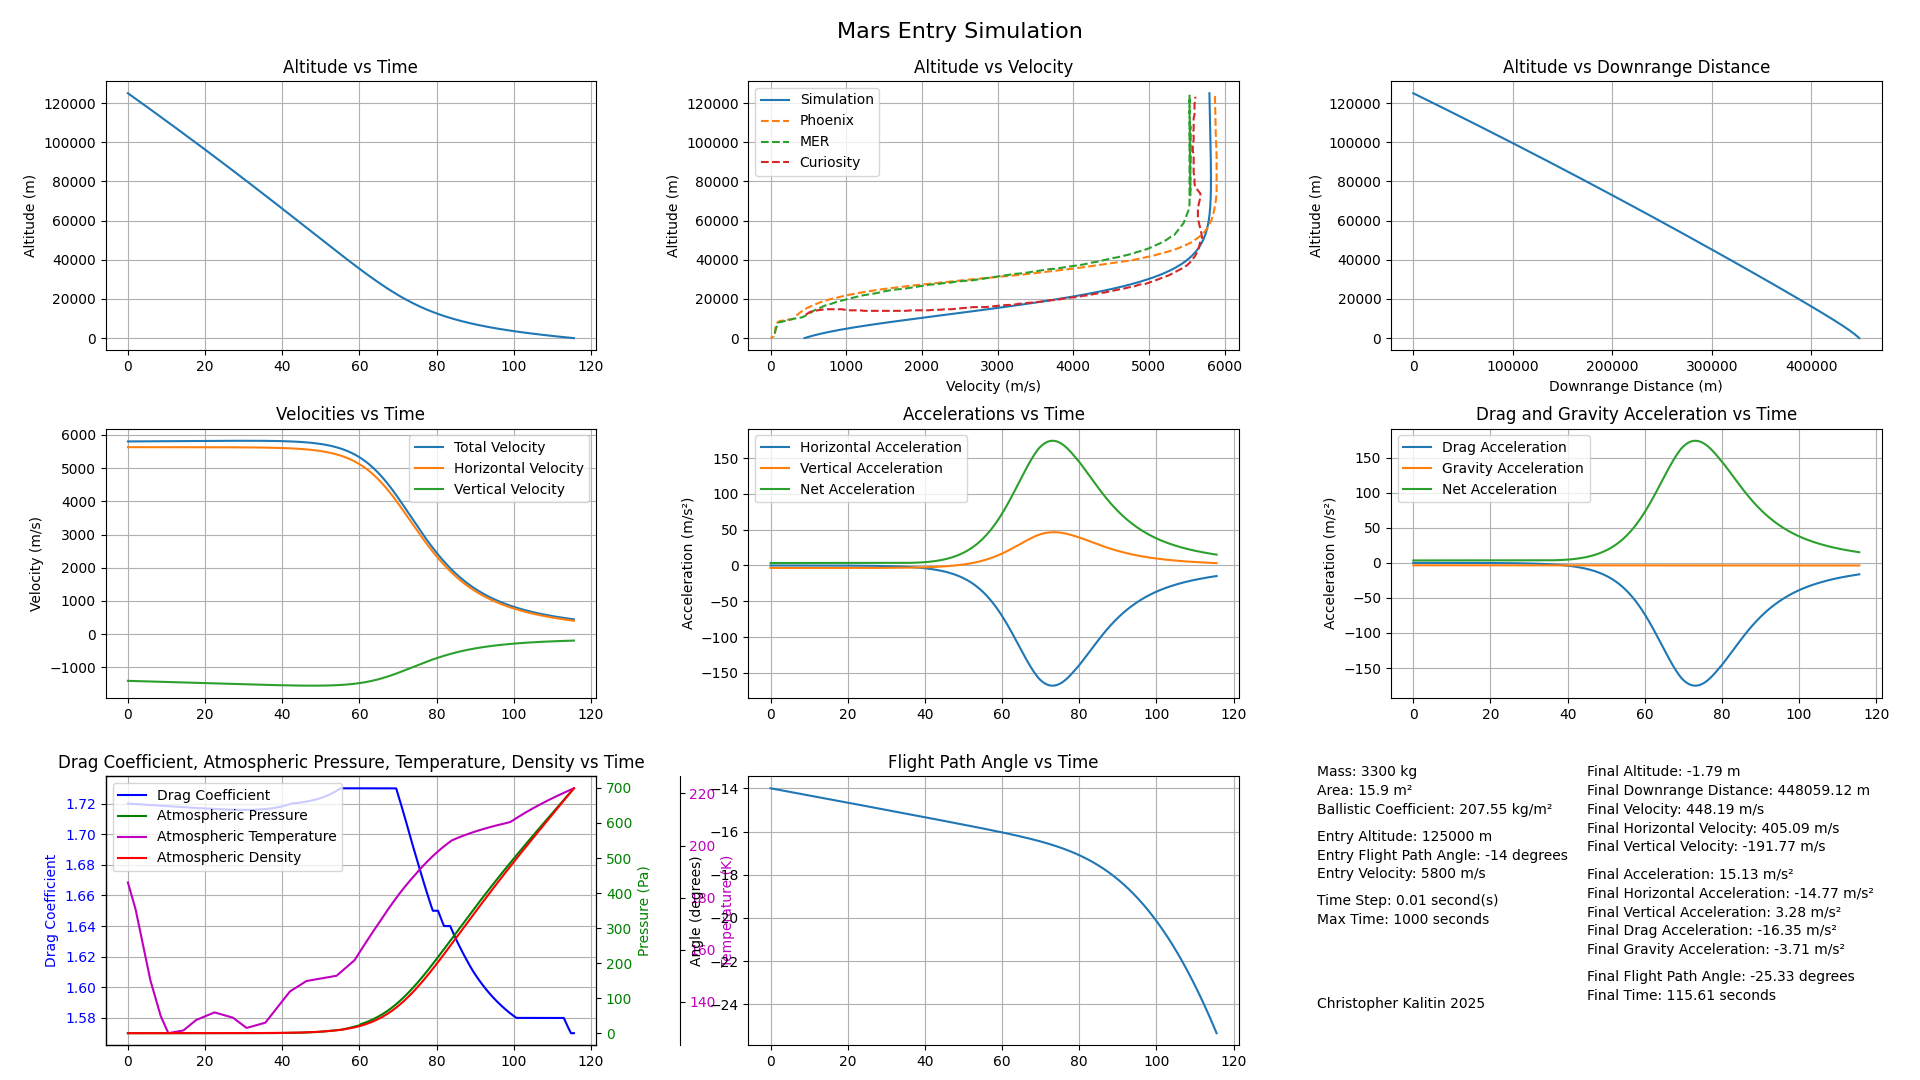
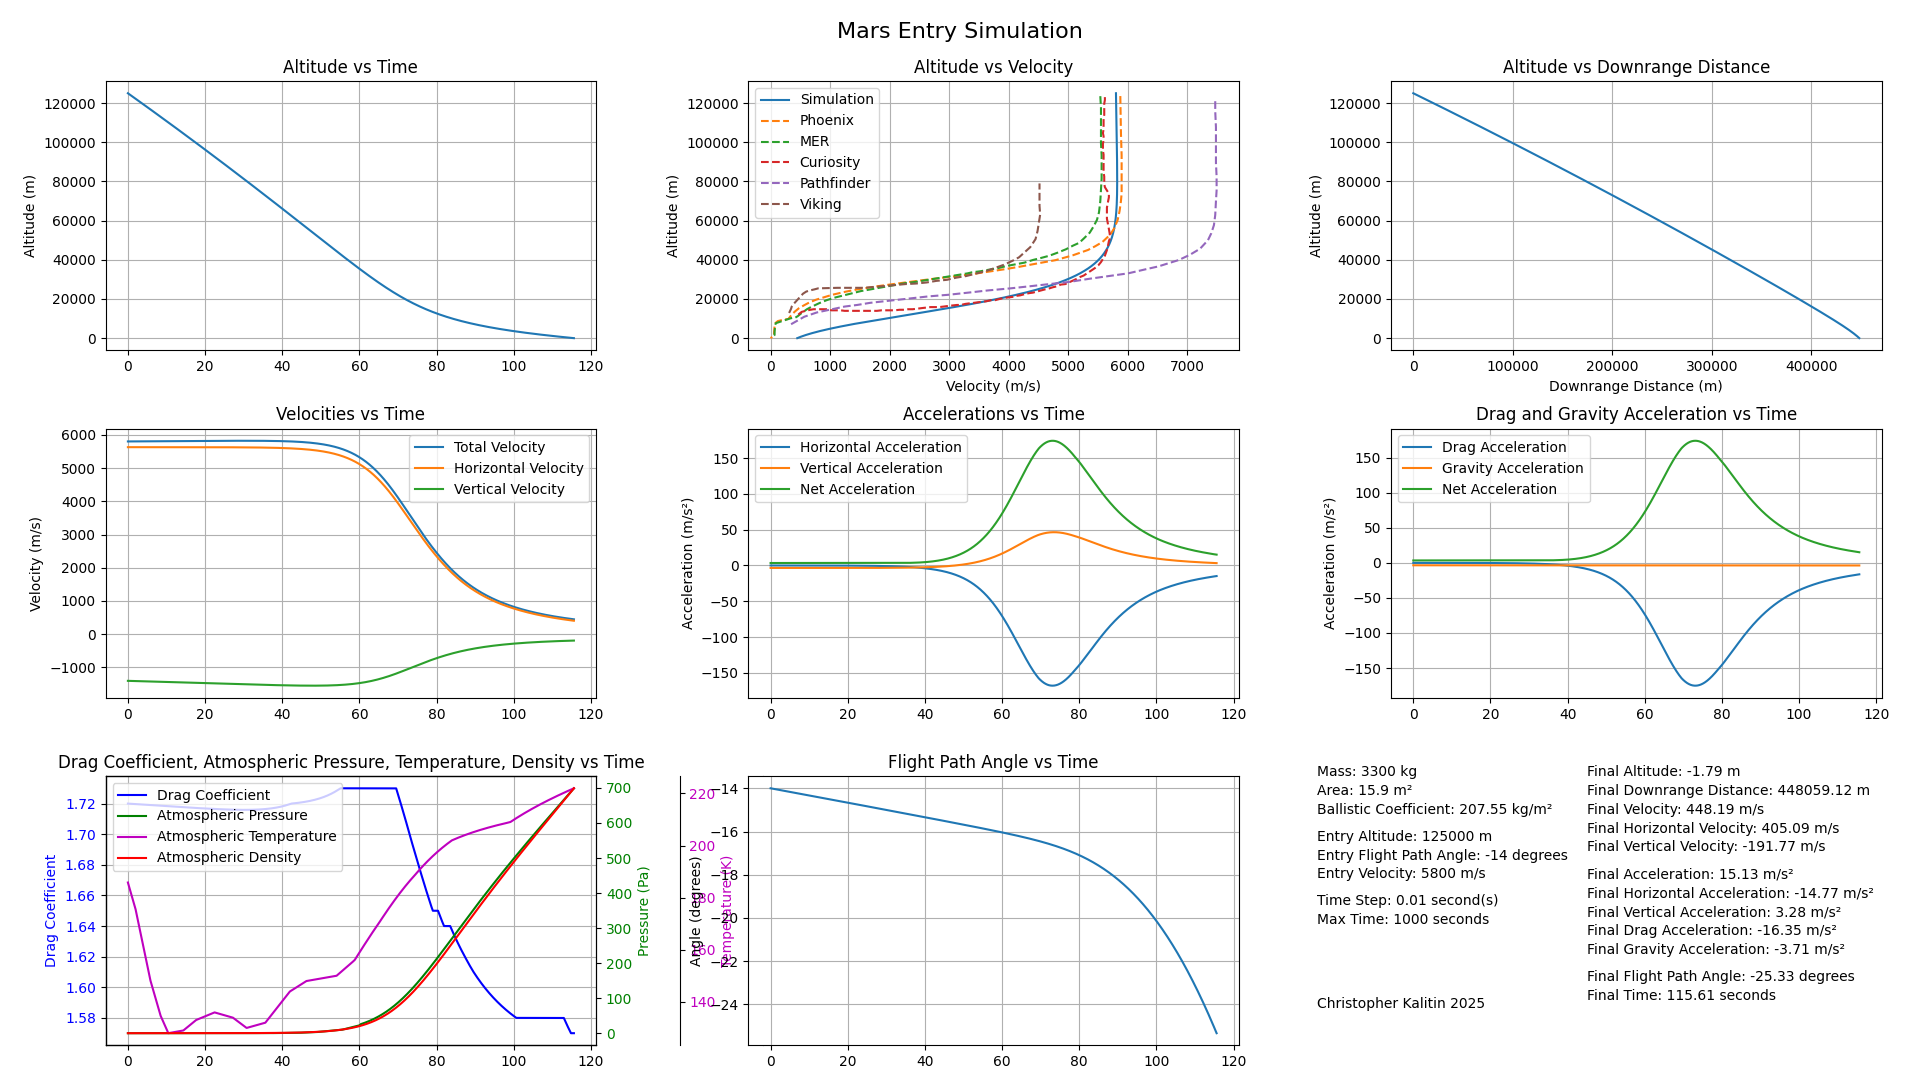
Added all backtest lander data

diff --git a/Simulation/backtest.py b/Simulation/backtest.py
@@ -23,11 +23,11 @@ phoenix = [
 mer = [
     # Velocity (m/s)
     np.array([
-    5548, 5548, 5548, 5548, 5548, 5548, 5548, 5537, 5537, 5537, 5537, 5526, 5503, 5481, 5459, 5415, 5370, 5337, 5315, 5315, 5237, 5237, 5160, 5160, 5082, 5082, 5004, 5004, 4926, 4926, 4849, 4849, 4760, 4760, 4671, 4671, 4583, 4583, 4505, 4505, 4416, 4416, 4327, 4327, 4239, 4239, 4150, 4150, 4061, 4061, 3961, 3961, 3872, 3872, 3784, 3784, 3695, 3695, 3595, 3595, 3506, 3506, 3417, 3417, 3318, 3318, 3229, 3229, 2752, 2752, 2663, 2663, 2574, 2574, 2474, 2474, 2386, 2386, 2297, 2297, 2208, 2208, 2108, 2108, 2019, 2019, 1931, 1931, 1842, 1842, 1753, 1753, 1664, 1664, 1564, 1564, 1487, 1487, 1398, 1398, 1309, 1309, 1221, 1221, 1132, 1132, 1043, 1043, 965, 965, 877, 877, 799, 799, 721, 721, 644, 644, 566, 566, 499, 499, 422, 422, 333, 333, 100, 67, 44
+    5537, 5548, 5548, 5548, 5559, 5559, 5559, 5548, 5537, 5515, 5481, 5426, 5359, 5259, 5182, 5082, 4960, 4827, 4682, 4549, 4405, 4261, 4117, 3972, 3828, 3673, 3528, 3384, 3307, 2430, 2275, 2119, 1975, 1820, 1675, 1520, 1376, 1232, 1087, 943, 810, 677, 610, 510, 455, 411, 377, 333, 89, 78, 67, 67, 33
     ]),
     # Altitude (m)
     np.array([
-    89071, 91530, 108197, 79508, 79508, 75410, 72951, 123770, 110383, 70492, 68033, 65574, 63115, 60929, 58743, 56557, 54372, 52732, 52459, 52459, 50273, 50273, 48634, 48634, 47268, 47268, 45902, 45902, 44809, 44809, 43989, 43989, 42896, 42896, 42077, 42077, 41257, 41257, 40710, 40710, 39891, 39891, 39071, 39071, 38525, 38525, 37705, 37705, 37158, 37158, 36612, 36612, 36066, 36066, 35519, 35519, 35246, 35246, 34699, 34699, 34153, 34153, 33607, 33607, 33060, 33060, 32787, 32787, 30055, 30055, 29508, 29508, 29235, 29235, 28962, 28962, 28415, 28415, 28142, 28142, 27596, 27596, 27322, 27322, 26776, 26776, 26230, 26230, 25683, 25683, 25137, 25137, 24863, 24863, 24317, 24317, 23770, 23770, 22951, 22951, 22404, 22404, 21858, 21858, 21038, 21038, 20219, 20219, 19399, 19399, 18579, 18579, 17486, 17486, 16667, 16667, 15301, 15301, 13934, 13934, 12295, 12295, 10656, 10656, 10109, 10109, 7923, 4372, 546
+    123497, 117486, 112295, 99454, 93443, 87432, 81421, 75683, 69945, 64208, 60383, 57104, 53825, 50820, 48634, 47268, 45355, 43716, 42077, 40984, 39891, 38525, 37705, 36885, 35792, 34973, 34153, 33607, 33060, 28689, 28142, 27322, 26503, 25683, 24863, 24044, 22951, 21858, 20765, 19399, 17760, 15847, 14754, 12568, 11202, 10383, 10383, 10109, 7650, 6831, 3279, 1639, 546
     ]),
     "MER"
 ]
@@ -43,6 +43,32 @@ curiosity = [
     12022, 13388, 14208, 14754, 14754, 14754, 14208, 14208, 14208, 13934, 13934, 13934, 13934, 13934, 13934, 13934, 13934, 14208, 14208, 14208, 14208, 14481, 14481, 14754, 14754, 15027, 15301, 15574, 15847, 15847, 15847, 16120, 16393, 16667, 16940, 16940, 17486, 17760, 18033, 18306, 18579, 18852, 19399, 19399, 19945, 20492, 20765, 21038, 21585, 21858, 22404, 22951, 23224, 23770, 24317, 24863, 25410, 25956, 26503, 27322, 27596, 30055, 31148, 31967, 33333, 34426, 35792, 37158, 38798, 40437, 42077, 43989, 45902, 47814, 49454, 51366, 53825, 55738, 57377, 59290, 60929, 62842, 64754, 66667, 68306, 70219, 71858, 73770, 77049, 78689, 80601, 82514, 84426, 86066, 87978, 89891, 91803, 93716, 95628, 97541, 99180, 101093, 103005, 104645, 106557, 108470, 110383, 112295, 113934, 115847, 117760, 119672, 121585, 123224
     ]),
     "Curiosity"
+]
+
+# Pathfinder Entry:
+pathfinder = [
+    # Velocity (m/s)
+    np.array([
+    344, 566, 777, 1032, 1243, 1454, 1675, 1997, 2330, 2652, 2985, 3318, 3639, 4028, 4361, 4682, 5015, 5359, 5681, 6003, 6313, 6513, 6713, 6857, 7046, 7212, 7345, 7401, 7445, 7467, 7479, 7490, 7490, 7479, 7479, 7479, 7479, 7467, 7467
+    ]),
+    # Altitude (m)
+    np.array([
+    7104, 10929, 13115, 14754, 16120, 16940, 18033, 19126, 20219, 21311, 22131, 23224, 24317, 25410, 26503, 27596, 28689, 30328, 31694, 33060, 35246, 36612, 38525, 39891, 42623, 45628, 50000, 53552, 57650, 62842, 69945, 75410, 82514, 89344, 96175, 103279, 107650, 115847, 121585
+    ]),
+    "Pathfinder"
+]
+
+# Viking Entry:
+viking = [
+    # Velocity (m/s)
+    np.array([
+    311, 344, 355, 388, 544, 599, 655, 732, 766, 799, 1121, 1154, 1187, 1376, 1564, 1886, 2264, 2441, 2619, 2785, 2963, 3118, 3284, 3639, 3917, 4072, 4172, 4361, 4449, 4483, 4527, 4516, 4516, 4516, 4516
+    ]),
+    # Altitude (m)
+    np.array([
+    12842, 15027, 16120, 17486, 22678, 23770, 24317, 24863, 25137, 25410, 25683, 25683, 25683, 25683, 25683, 26503, 27596, 27869, 28415, 29235, 29781, 30874, 31694, 34426, 37432, 39617, 41257, 46448, 50546, 54645, 63115, 67486, 72131, 75683, 78962
+    ]),
+    "Viking"
 ]
 
 # Curiosity
@@ -69,4 +95,4 @@ sim_data = sim.simulate(
     verbose=False,
 )
 
-sim.plot(sim_data, filename="backtest/Curiosity-Entry.png", comparisons=[phoenix, mer, curiosity], show=False)
+sim.plot(sim_data, filename="backtest/Curiosity-Entry.png", comparisons=[phoenix, mer, curiosity, pathfinder, viking], show=False)

diff --git a/Extras/sheets_to_np_array.py b/Extras/sheets_to_np_array.py
@@ -28,9 +28,7 @@ def parse_vel_alt(data_str):
     v_arr = np.array(velocities, dtype=int)
     h_arr = np.array(alts,       dtype=int)
     
-    # Sort by velocity descending
-    idx = np.argsort(-v_arr)
-    return v_arr[idx], h_arr[idx]
+    return v_arr, h_arr
 
 def format_for_python(name, v_arr, h_arr):
     """
@@ -64,121 +62,42 @@ def format_for_python(name, v_arr, h_arr):
 if __name__ == "__main__":
     # paste your sheet output into this triple‑quoted string:
     raw_data = """Velocity (m/s)	Altitude (m)
-466	12,022
-521	13,388
-621	14,208
-721	14,754
-832	14,754
-943	14,754
-1,021	14,208
-1,098	14,208
-1,176	14,208
-1,243	13,934
-1,320	13,934
-1,398	13,934
-1,476	13,934
-1,553	13,934
-1,631	13,934
-1,709	13,934
-1,786	13,934
-1,864	14,208
-1,942	14,208
-2,008	14,208
-2,086	14,208
-2,164	14,481
-2,241	14,481
-2,308	14,754
-2,386	14,754
-2,463	15,027
-2,530	15,301
-2,607	15,574
-2,685	15,847
-2,752	15,847
-2,829	15,847
-2,907	16,120
-2,974	16,393
-3,051	16,667
-3,129	16,940
-3,196	16,940
-3,273	17,486
-3,340	17,760
-3,417	18,033
-3,484	18,306
-3,562	18,579
-3,628	18,852
-3,706	19,399
-3,773	19,399
-3,839	19,945
-3,917	20,492
-3,983	20,765
-4,061	21,038
-4,128	21,585
-4,194	21,858
-4,261	22,404
-4,338	22,951
-4,405	23,224
-4,472	23,770
-4,538	24,317
-4,605	24,863
-4,682	25,410
-4,738	25,956
-4,816	26,503
-4,871	27,322
-4,949	27,596
-5,126	30,055
-5,193	31,148
-5,259	31,967
-5,326	33,333
-5,381	34,426
-5,448	35,792
-5,503	37,158
-5,548	38,798
-5,581	40,437
-5,614	42,077
-5,637	43,989
-5,659	45,902
-5,670	47,814
-5,681	49,454
-5,703	51,366
-5,692	53,825
-5,681	55,738
-5,670	57,377
-5,659	59,290
-5,648	60,929
-5,648	62,842
-5,648	64,754
-5,648	66,667
-5,659	68,306
-5,670	70,219
-5,681	71,858
-5,681	73,770
-5,614	77,049
-5,603	78,689
-5,603	80,601
-5,603	82,514
-5,592	84,426
-5,592	86,066
-5,592	87,978
-5,592	89,891
-5,592	91,803
-5,592	93,716
-5,581	95,628
-5,581	97,541
-5,581	99,180
-5,592	101,093
-5,592	103,005
-5,581	104,645
-5,592	106,557
-5,592	108,470
-5,592	110,383
-5,592	112,295
-5,603	113,934
-5,603	115,847
-5,603	117,760
-5,603	119,672
-5,614	121,585
-5,614	123,224
+311	12,842
+344	15,027
+355	16,120
+388	17,486
+544	22,678
+599	23,770
+655	24,317
+732	24,863
+766	25,137
+799	25,410
+1,121	25,683
+1,154	25,683
+1,187	25,683
+1,376	25,683
+1,564	25,683
+1,886	26,503
+2,264	27,596
+2,441	27,869
+2,619	28,415
+2,785	29,235
+2,963	29,781
+3,118	30,874
+3,284	31,694
+3,639	34,426
+3,917	37,432
+4,072	39,617
+4,172	41,257
+4,361	46,448
+4,449	50,546
+4,483	54,645
+4,527	63,115
+4,516	67,486
+4,516	72,131
+4,516	75,683
+4,516	78,962
     """
     
 vel,alt = parse_vel_alt(raw_data)
-print(format_for_python("Curiosity", vel, alt))
+print(format_for_python("Viking", vel, alt))

diff --git a/Extras/line_pixel_extract.py b/Extras/line_pixel_extract.py
@@ -10,11 +10,11 @@ except ImportError:
 # --- User-Configurable Variables ---
 image_path = 'extract_image.png'   # Path to your input chart image
 # Set your target HSV color (hue: 0-179, sat: 0-255, val: 0-255)
-target_hsv = (int(0/2), int(0*2.55), int(0*2.55))
+target_hsv = (int(240/2), int(100*2.55), int(100*2.55))
 # HSV tolerance around target: (hue_range, sat_range, val_range)
-hsv_range = (1, 1, 1)
+hsv_range = (40, 40, 40)
 # Number of evenly spaced points you want along the curve
-num_points = 500
+num_points = 400
 
 sort_by_corner  = True
 # -----------------------------------

diff --git a/README.md b/README.md
@@ -8,6 +8,6 @@ Project Files: https://drive.google.com/drive/folders/1TZtnQIGfnQR2XwH2QPFnw9MOi
 Project Blog Post: Soon!  
 
 # Todo
-1. Add the rest of the Mars Lander trajectories from Handmers chart
+1. <u>Add the rest of the Mars Lander trajectories from Handmers chart</u>
 2. Add existing lander parameters to backtest.py
 3. Fit best atmosphere model / drag multiplier to ensure back tests match
